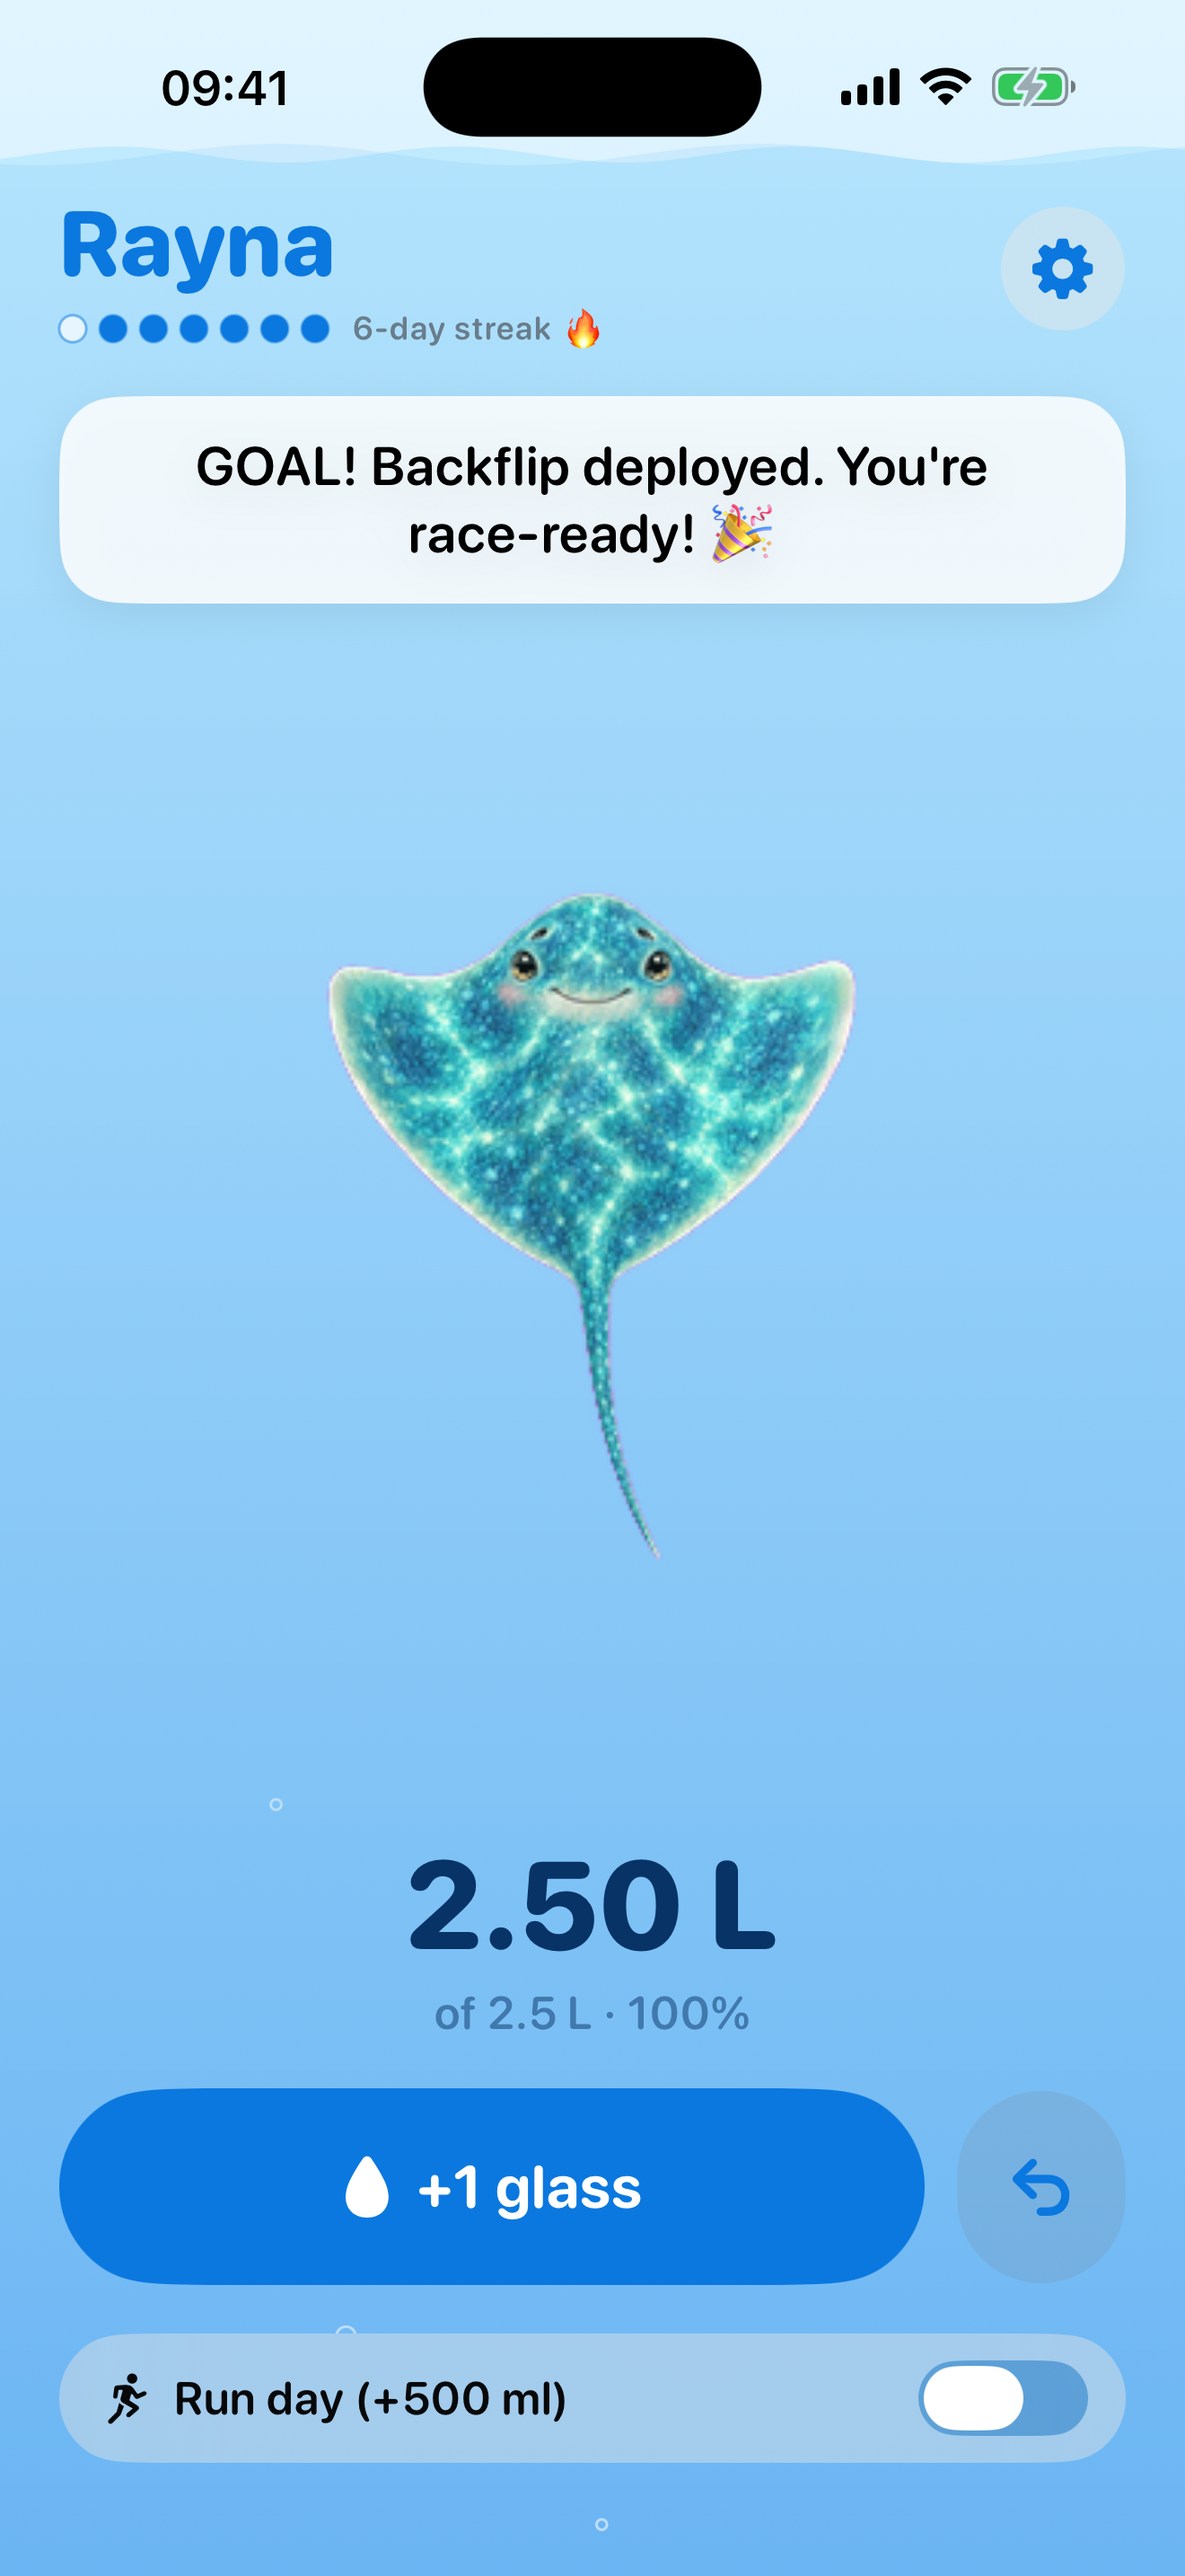
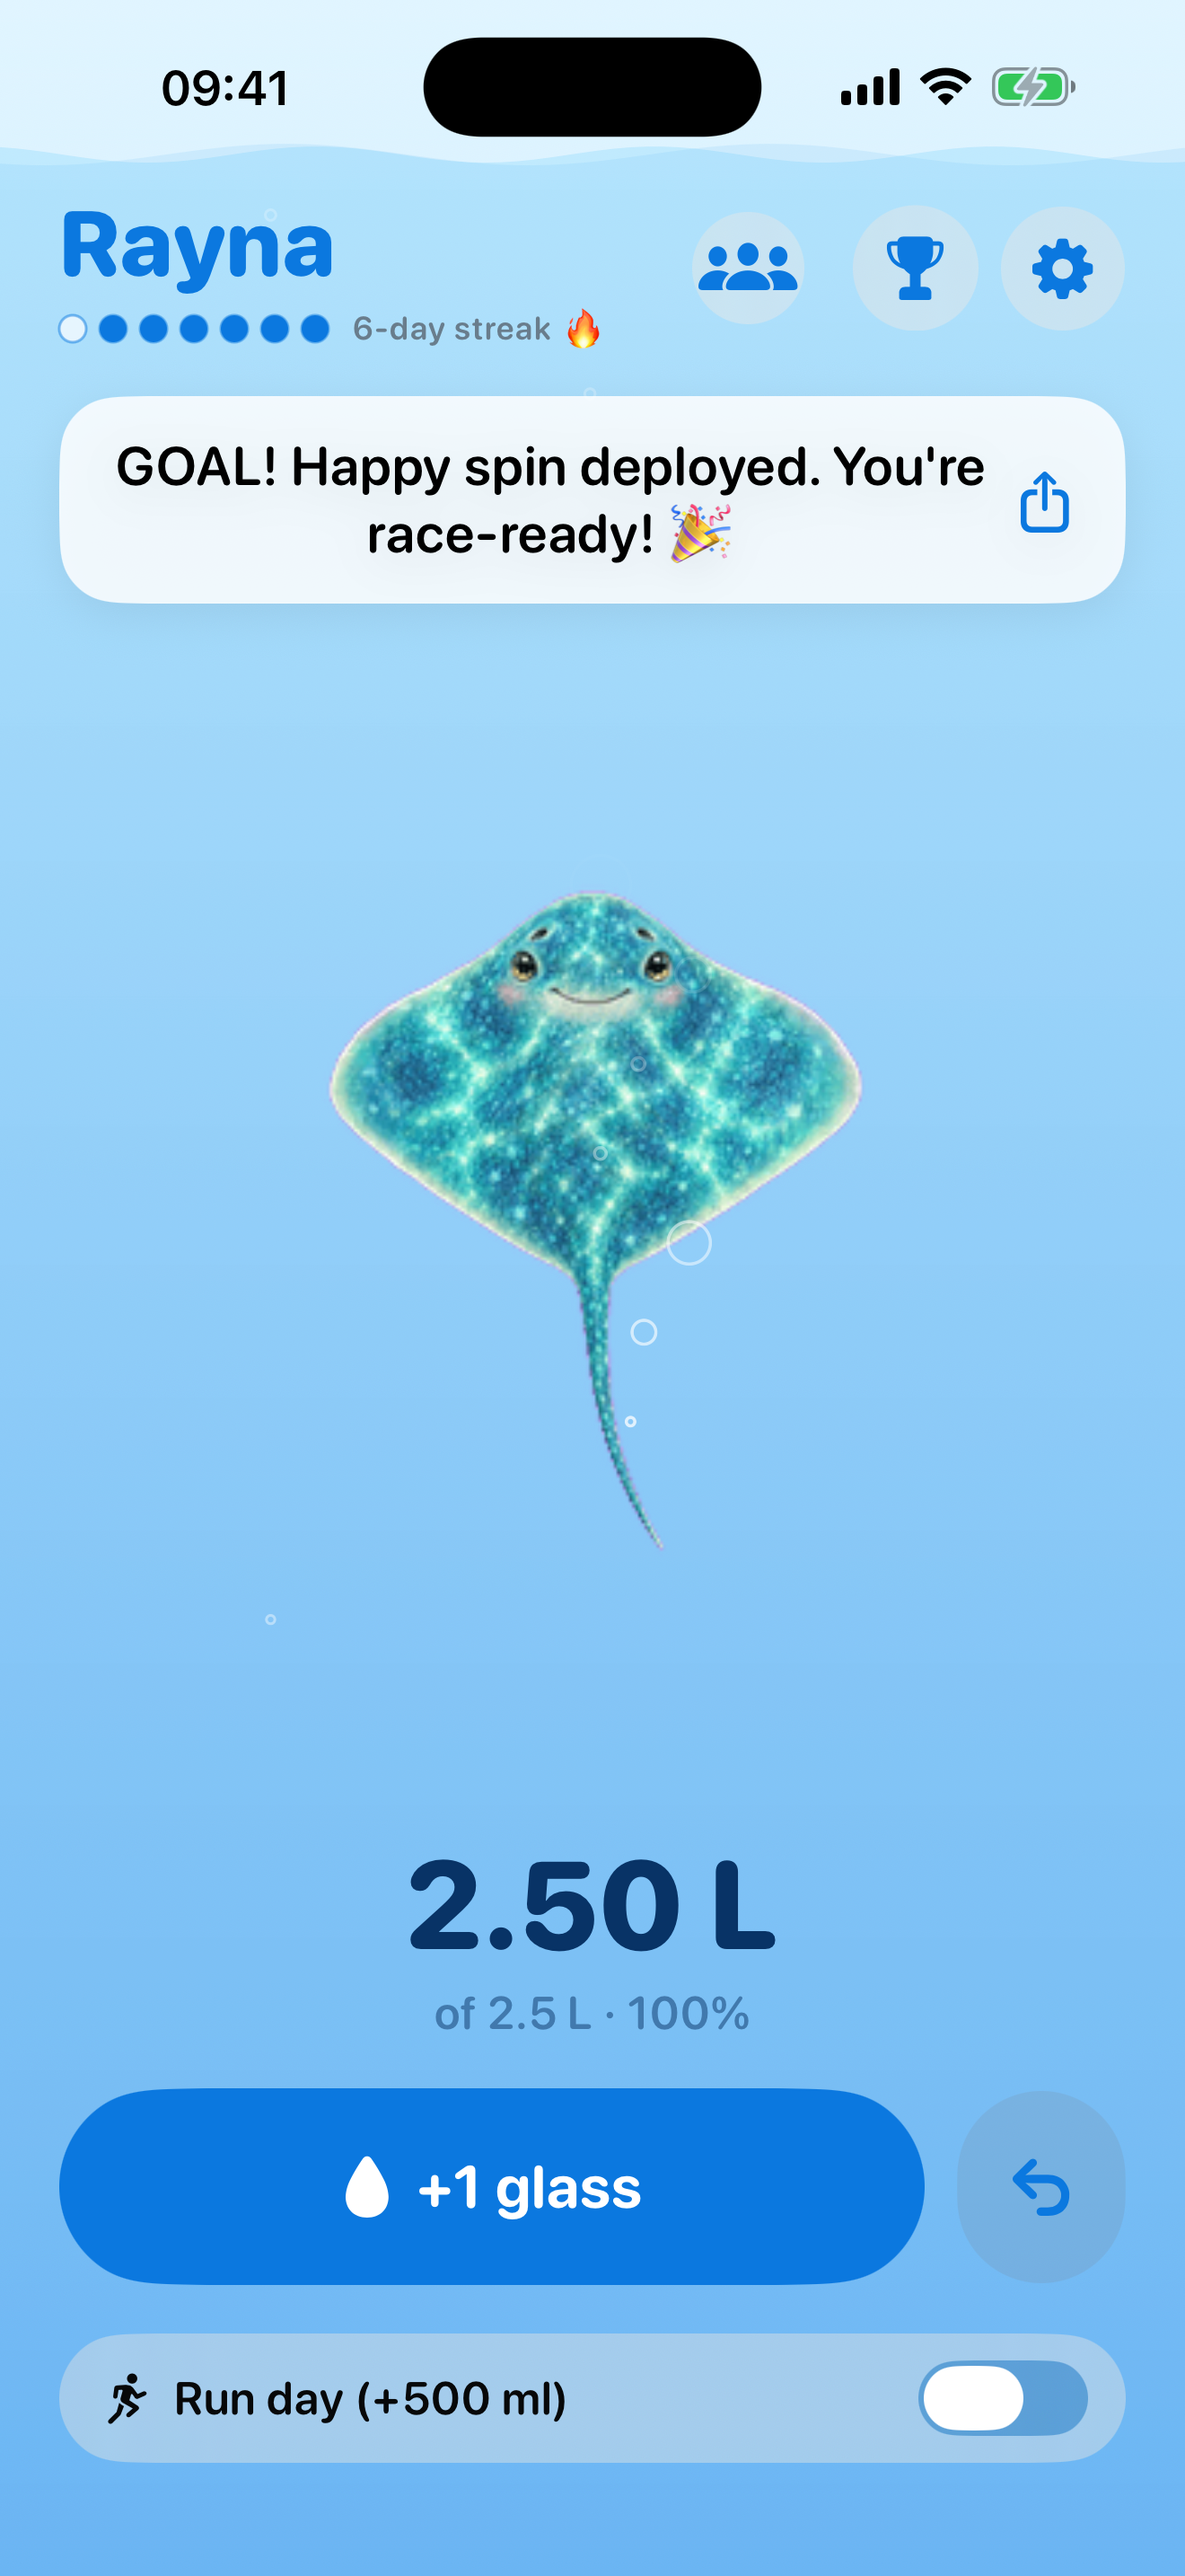
App Store: metadata + screenshots for 2.2 features (unlocks, journey, pods, Health, Watch, Live Activity)

diff --git a/appstore/metadata.md b/appstore/metadata.md
@@ -19,12 +19,12 @@
 Meet Rayna, the stingray who gets happier with every glass you drink. One tap to log, gentle nudges, a Home Screen widget, and a backflip when you hit your goal. 🌊
 
 ## Description
-Rayna is a cheerful little stingray who lives in your water glass. The more you drink, the higher the water rises and the happier she gets. She starts the day a bit flat and droopy, and by the time you hit your goal she's flapping, smiling and doing a backflip in a burst of confetti.
+Rayna is a cheerful little stingray who lives in your water glass. The more you drink, the higher the water rises and the happier she gets. She starts the day a bit flat and droopy, and by the time you hit your goal she's flapping, smiling and spinning for joy in a burst of confetti.
 
 LOG A GLASS IN ONE TAP
 • Big “+1 glass” button with a satisfying haptic, a happy wiggle and a splash
 • Made a mistake? Undo it
-• Rayna's quips change as you go, from “Morning! I'm a bit… flat. Splash me?” to “GOAL! Backflip deployed.”
+• Rayna's quips change as you go, from “Morning! I'm a bit… flat. Splash me?” to “GOAL! Happy spin deployed.”
 
 FRIENDLY REMINDERS THAT KNOW WHEN TO STOP
 • Reminders every 30–120 minutes during your waking hours only
@@ -33,35 +33,47 @@ FRIENDLY REMINDERS THAT KNOW WHEN TO STOP
 • Reminders stop once you've hit today's goal
 • Optional evening nudge: “Fancy swapping the next pint for a pint of water?” 🍺➡💧
 
-HOME SCREEN WIDGET
-• Small and medium widgets show Rayna and today's progress
-• Tap “+1 glass” straight from the widget
+RAYNA GROWS WITH YOUR STREAK
+• Unlock a bubble trail (3 days), a run-day headband (7), a race medal (14) and a baby ray buddy (30)
+• A weekly recap with fun stats (“That's 22% of a bathtub”)
+• Optional evening swap-a-pint challenge with its own streak
+
+HYDRATE WITH FRIENDS
+• Start a pod over iCloud and invite friends with a link: no accounts
+• See everyone's Rayna in a shared tank, send a friendly nudge (max 3 a day) and build a pod streak
+• Share goal, streak and unlock cards to your story
+
+WIDGETS, WATCH AND LIVE ACTIVITY
+• Home Screen and Lock Screen widgets, with “+1 glass” right from the widget
+• Apple Watch app and complications
+• Optional run-day Live Activity on the Lock Screen and Dynamic Island
 
 BUILT FOR RUNNERS (AND EVERYONE ELSE)
 • Default goal of 2.5 L, with a one-tap Run day toggle that adds 500 ml
+• Optional Apple Health: runs (including from Garmin or Strava via Health) switch on run day automatically, and glasses can be saved as Dietary Water
 • Set your own goal and glass size
 • Streak dots show how many days in a row you've hit your goal
 
 PRIVATE BY DESIGN
 • No account, no tracking, no ads
-• Everything stays on your iPhone
+• Your data stays on your devices, in Apple Health (if you turn it on) and in iCloud for pods you join
 
 Rayna also lives in your Mac's menu bar. It's free and open source at rayna-water.netlify.app.
 
 ## Keywords (≤100, comma-separated, no spaces)
-water,drink,hydration,reminder,tracker,habit,health,widget,stingray,running,glass,daily,goal,streak
+water,drink,hydration,reminder,tracker,habit,health,widget,stingray,running,watch,friends,goal,streak
 
 ## What's New (1.0)
 Rayna's first splash on iPhone! 🌊
 
 ## App Review notes
-No login is needed. Tap “+1 glass” to log water; the gear icon opens Settings. Reminders are local notifications (no server). The Home Screen widget's “+1 glass” button uses an App Intent. All data is stored on the device in an App Group shared with the widget.
+No login is needed. Tap “+1 glass” to log water; the gear icon opens Settings. Reminders are local notifications (no server). The Home Screen widget's “+1 glass” button uses an App Intent. All data is stored on the device in an App Group shared with the widget. Optional features: Apple Health (Settings → Apple Health; reads running workouts, writes Dietary Water), Pods (people icon; CloudKit sharing, needs iCloud sign-in, no developer server), Apple Watch app (WatchConnectivity), run-day Live Activity (Settings). Demo data for review isn't needed: one device can start a pod and see itself in the tank.
 
 ## Age rating
 Answer **None** to every content question (no violence, no mature themes, no gambling, no unrestricted web access, no user-generated content, no medical/treatment information). Result: **4+**. Rayna is general hydration encouragement, not medical advice.
 
 ## App Privacy (nutrition label)
-**Data Not Collected.** Answer “No, we do not collect data from this app.” There are no third-party SDKs or analytics, and no tracking (no ATT prompt needed).
+**Data Not Collected** (to confirm with Nik). There are no third-party SDKs or analytics, and no tracking (no ATT prompt needed). Health data stays in HealthKit on device. Pod data (display name and daily glasses/ml/goal/streak) lives in the users' own iCloud via CloudKit sharing, which the developer can't access. Apple treats that as not collected, but re-check this answer before submitting.
 
 ## Export compliance
 `ITSAppUsesNonExemptEncryption = NO` is set in Info.plist, so there's no encryption question at upload.
@@ -71,7 +83,10 @@ Answer **None** to every content question (no violence, no mature themes, no gam
 1. Over halfway, happy Rayna (60 %)
 2. Early in the day, droopy Rayna (20 %)
 3. Goal reached, 100 %
-4. Settings (goal, glass size, reminders, quiet hours, evening pint-swap)
+4. Settings (goal, glass size, run-day Live Activity, reminders, swap-a-pint, Apple Health)
+5. Rayna with unlocks (headband, medal, bubbles, baby ray) and the swap-a-pint card
+6. Rayna's journey: weekly recap and the unlock collection
+7. Pod: shared tank with friends, nudges and pod streak
 
 Regenerate: `cd iOS && scripts/screenshots.sh <sim-udid>:6.9 <sim-udid>:6.7` (after a simulator build).
 iPad screenshots (13") are only needed if iPad stays enabled (`TARGETED_DEVICE_FAMILY = 1,2`). Otherwise set it to `1` for iPhone-only.
